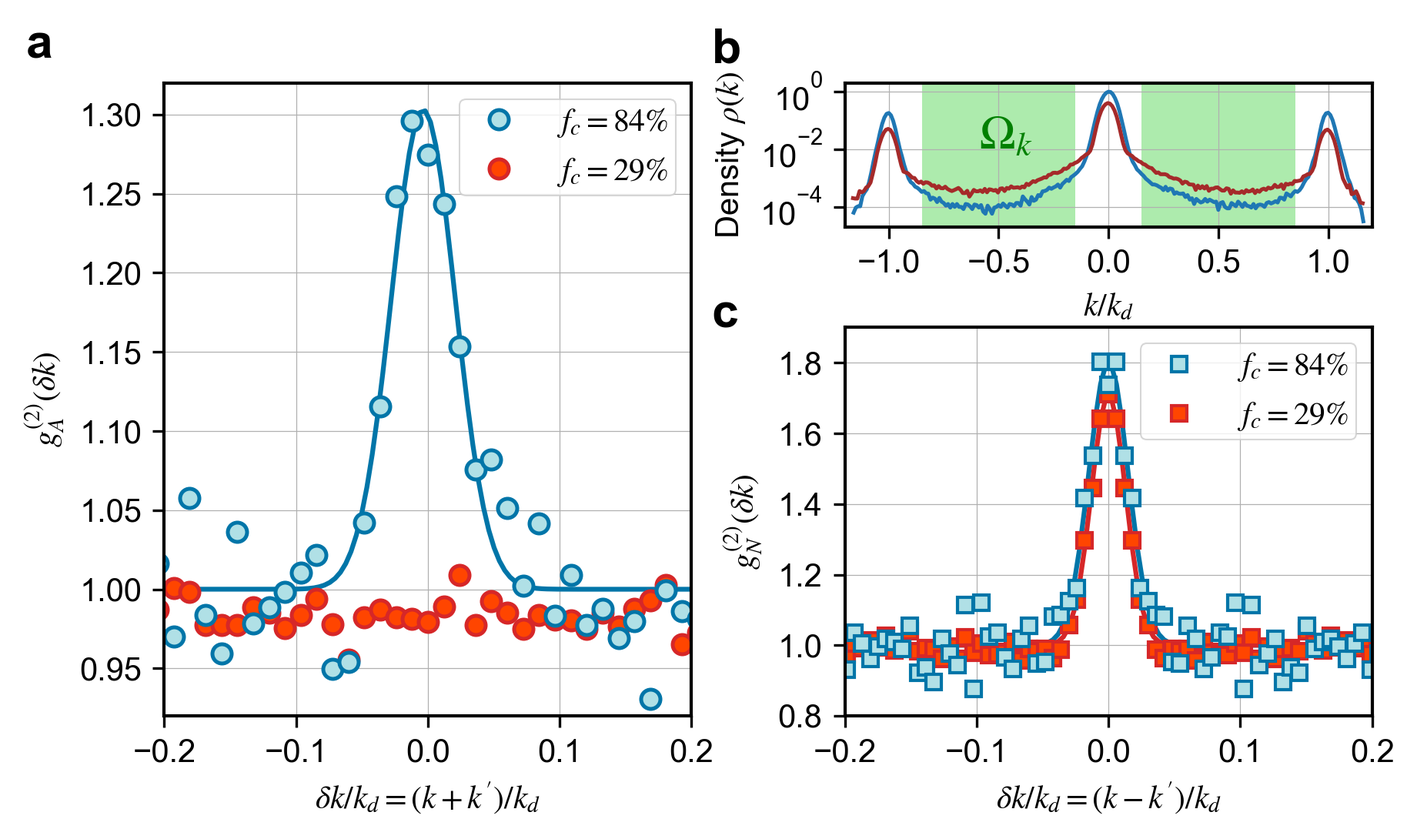
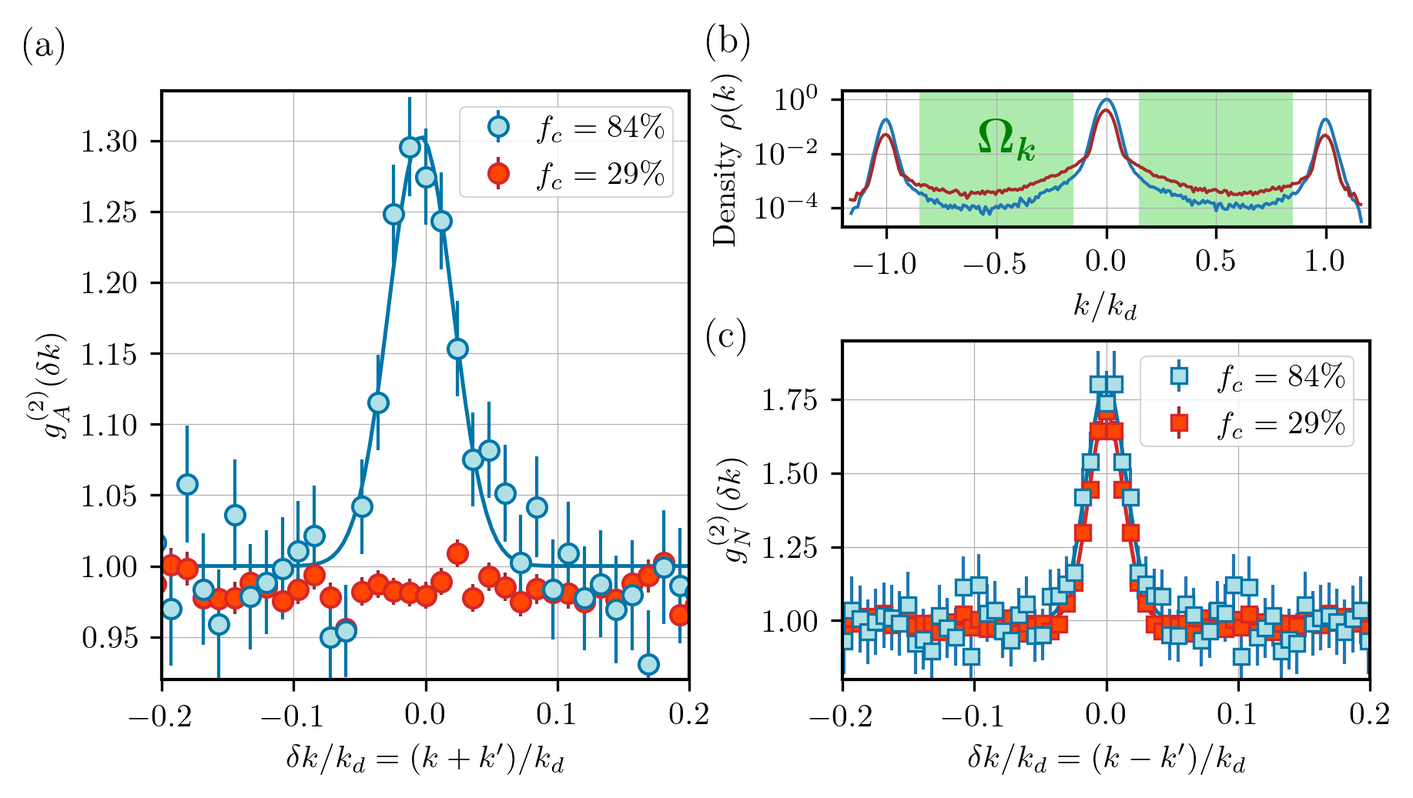
corrections chapitre 4

diff --git a/Chapters/Chapter4_kmk.tex b/Chapters/Chapter4_kmk.tex
@@ -4,9 +4,9 @@
 
 \label{sec:chapter_4}
 
-The Bogoliubov interacting Bose gas has been the subject of a large variety of experimental studies, both aiming at measuring Bogoliubov spectrum of excitations \cite{fontaine2018,miller1962,ozeri2005,stepanov2019} as well as the quantum depletion \cite{chang2016,lopes2017,xu2006observation}. However, even though there have been some experimental work measuring the Lee, Huang and Yang beyond-mean field correction to the ground-state energy \cite{navon2010equation,skov2021observation}, an experimental study of the correlations in the many-body ground-state, and more precisely the observation of the predicted \kmk pairs, is yet to be done more than 60 years after Lee, Huang and Yang paper \cite{lee1957}. As we have seen through the different chapters of this thesis, our experimental setup is perfectly suited for such an investigation. 
+The Bogoliubov interacting Bose gas has been the subject of a large variety of experimental studies, both aiming at measuring the Bogoliubov spectrum of excitations \cite{fontaine2018,miller1962,ozeri2005,stepanov2019} as well as the quantum depletion \cite{chang2016,lopes2017,xu2006observation}. However, even though there have been some experimental work measuring the Lee, Huang and Yang beyond-mean field correction to the ground-state energy \cite{navon2010equation,skov2021observation}, an experimental study of the correlations in the many-body ground-state, and more precisely the observation of the predicted \kmk pairs, is yet to be done more than 60 years after their prediction \cite{lee1957}. As we have seen through the different chapters of this thesis, our experimental setup is perfectly suited for such an investigation. 
 
-We will present in this chapter the main result of this thesis, namely the observation of the \kmk pairs of the quantum depletion. We will detail the numerical procedure and the analysis method used to extract the correlation signals and present the experimental results. With the theoretical developments of Chapter \ref{sec:chapter_1}, we will show how we can link the measured anomalous correlation signal to the \kmk pairs of the quantum depletion by studying the effect of temperature, the widths and amplitudes of the correlation peak, as well as the fluctuations of the atom number difference between modes $\bm{k}$ and $-\bm{k}$. In addition, we will show how our measurement constitutes a first step towards showing the presence of momentum-space entanglement in many-body equilibrium states.
+We will present in this chapter the main result of this thesis, namely the observation of the \kmk pairs of the quantum depletion. We will detail the numerical procedure and the analysis method used to extract the correlation signals and present the experimental results. With the theoretical developments of Chapter \ref{sec:chapter_1}, we will show how we can link the measured anomalous correlation signal to the \kmk pairs of the quantum depletion by studying the effect of temperature, the widths and amplitudes of the correlation peak, as well as the fluctuations of the atom number difference between modes $\bm{k}$ and $-\bm{k}$. In addition, we will show how our measurement constitutes a first step towards showing the presence of momentum-space entanglement in many-body equilibrium states. We will finally discuss the evolution of the correlation signals with the region of momentum space they are probed in in light of the work \cite{butera2020}.
 
 \section{Numerical procedure to measure two-body correlations}
 
@@ -77,15 +77,15 @@ The first step is to compute the numerator of equations \ref{Eq:g2_anomalous} or
 
 \noindent We end up with a 3D histogram where each voxel is associated to a value of $\delta \bm{k} = (\delta k_x,\delta k_y, \delta k_z)$ and records how many atom pairs have this specific momentum sum or difference, depending on the kind of the correlations probe. The voxels are set to be cubic of dimension $\Delta k_{\parallel}$. The value of $\Delta k_{\parallel}$ is adapted so that we can properly resolve the correlation peaks while ensuring a proper signal to noise ratio. In practice, we use $\Delta k_{\parallel}= 1.2 \times 10^{-2} \ k_d$ for \kmk correlations and $\Delta k_{\parallel}= 6 \times 10^{-3} \ k_d$ for \kk correlations as normal the correlation peak is narrower than the anomalous one (see \ref{sec:width_correlation_theo}).
 
-The major difference with the previous version of the algorithm (see Appendix of \cite{carcy2019momentum}) is that we record here the full 3D histogram of calculated $\delta \bm{k}$ on every pair of atoms. The procedure was originally made simpler by calculating three one-dimensional histograms, one for each direction of space. Each of these histograms represents a one-dimensional cut of general 3D correlation function $G^{(2)}(\delta \bm{k})$. For instance, to obtain the $x$ direction histogram, for the atom $j$ in run $i$, we calculate $\delta k_x$ only for atoms $p$ close enough in momentum space to find a \kk correlations, \ie with $|k_y^{(j)}-k_y^{(p)}| \leq \Delta k_{\perp}$ and $|k_z^{(j)}-k_z^{(p)}| \leq \Delta k_{\perp}$, where $\Delta k_{\perp}$ defines a transverse integration (see later). This method obviously saves computing time and RAM space, but is not suited to look for \kmk correlations.
+The major difference with the previous version of the algorithm (see Appendix of \cite{carcy2019momentum}) is that we record here the full 3D histogram of calculated $\delta \bm{k}$ on every pair of atoms. The procedure was originally made simpler by calculating three one-dimensional histograms, one for each direction of space. Each of these histograms represents a one-dimensional cut of the general 3D correlation function $G^{(2)}(\delta \bm{k})$. For instance, to obtain the $x$ direction histogram, for the atom $j$ in run $i$, we calculate $\delta k_x$ only for atoms $p$ close enough in momentum space to find a \kk correlations, \ie with $|k_y^{(j)}-k_y^{(p)}| \leq \Delta k_{\perp}$ and $|k_z^{(j)}-k_z^{(p)}| \leq \Delta k_{\perp}$, where $\Delta k_{\perp}$ defines a transverse integration (see later). This method obviously saves computing time and RAM space, but is not suited to look for \kmk correlations.
 
-At this point, we record in the central voxels associated to $\delta \bm{k} \simeq \bm{0}$ what we call \textbf{true coincidences}, namely two atoms detected conjointly as a result of \kmk pairing or bosonic bunching. However, we also record \textbf{accidental coincidences} that do not represent correlations but result from the momentum distribution of the atoms. We then need a normalization process to get rid of the contribution of accidental coincidences, \ie a method to compute the denominator of equation \ref{Eq:g2}.
+At this point, we record in the central voxels associated to $\delta \bm{k} \simeq \bm{0}$ what we call \textbf{true coincidences}, namely two atoms detected conjointly as a result of \kmk pairing or bosonic bunching. However, we also record \textbf{accidental coincidences} that do not represent correlations but result from the momentum distribution of the atoms. We then need a normalization process to get rid of the contribution of accidental coincidences, \ie a method to compute the denominator of equation \ref{Eq:g2_anomalous} or \ref{Eq:g2_normal}.
 
 \subsubsection{Denominator calculation}
 
 \label{sec:algo}
 
-We now compute the denominator of equation \ref{Eq:g2}, representing the effect of accidental coincidences. To perform this calculation, we would like to use a sample of uncorrelayted atoms with the same momentum density than our experimental data. This can be done by merging all experimental shots together, each shot being uncorrelated with one another. We then apply the procedure we have just described to this data set. However, the correlations present within single shots remain in this large file. In the end, the total number of correlations in the numerator is $\sum_i N_i^2$ whereas the number of coincidences in the merged file is $(\sum_i N_i)^2$. With $\bar{N}$ the mean number of atoms per shot, we see that:
+We now compute the denominator of equation \ref{Eq:g2_anomalous} or \ref{Eq:g2_normal}, representing the effect of accidental coincidences. To perform this calculation, we would like to use a sample of uncorrelated atoms with the same momentum density than our experimental data. This can be done by merging all experimental shots together, each shot being uncorrelated with one another. We then apply the procedure we have just described to this data set. However, the correlations present within single shots remain in this large file. In the end, the total number of correlations in the numerator is $\sum_i N_i^2$ whereas the number of coincidences in the merged file is $(\sum_i N_i)^2$. With $\bar{N}$ the mean number of atoms per shot, we see that:
 
 \begin{equation}
       \frac{\sum_i N_i^2}{(\sum_i N_i)^2}=\frac{N_{\rm{runs}} \bar{N}^2}{N_{\rm{runs}}^2 \bar{N}^2}=\frac{1}{N_{\rm{runs}}}
@@ -130,7 +130,7 @@ We now write what is the signal that is plotted when this process is applied. Th
     \label{eq:g2_theo}
 \end{equation}
 
-\noindent where we introduce $\eta_0$ the amplitude of the correlation peak and $\sigma_i$ the RMS width of the correlation peak in direction $i=x,y,z$. Importantly, we have assumee that the different correlation axis are separable. We re-write this equation to account for the transverse integration process, with the example of a cut along the $x$ direction:
+\noindent where we introduce $\eta_0$ the amplitude of the correlation peak and $\sigma_i$ the RMS width of the correlation peak in direction $i=x,y,z$. Importantly, we have assumed that the different correlation axis are separable. We re-write this equation to account for the transverse integration process, with the example of a cut along the $x$ direction:
 
 \begin{equation}
     g^{(2)} \left(\delta k_{x}\right)=\frac{1}{\left(2 \Delta k_{\perp}\right)^{2}} \iint_{-\Delta k_{\perp}}^{\Delta k_{\perp}} \left( 1+ \eta_0 \prod_{i=x, y, z} \exp \left(\frac{-\delta k_{i}^{2}}{2 \sigma_i^{2}}\right) \mathrm{d} \delta k_y \mathrm{d} \delta k_z \right)
@@ -149,19 +149,28 @@ Note that we have here neglected the small longitudinal integration induced by t
     \label{eq:fit_integration}
 \end{equation}
 
-The idea is then to measure $\eta$ for several values of $\Delta k_{\perp}$ and fit the data with equation \ref{eq:fit_integration} with $\eta_0$ and $\sigma$ as free parameters. For a single value of the transverse integration, $\eta$ is obtained by averaging the 3 amplitudes fitted on the 1D cuts along the 3 directions of space. The uncertainty on the parameters of the fit defines the error bars on the amplitude.
+The idea is then to measure $\eta$ for several values of $\Delta k_{\perp}$ and fit the data with equation \ref{eq:fit_integration} with $\eta_0$ and $\sigma$ as free parameters. This is illustrated on Fig-\ref{fig:integration_kk} and Fig.-\ref{fig:eta_vs_int_kmk} for \kmk and \kk correlations respectively. For a single value of the transverse integration, $\eta$ is obtained by averaging the 3 amplitudes fitted on the 1D cuts along the 3 directions of space. The uncertainty on the parameters of the fit defines the error bars on the amplitude.
 
-In addition, we have checked that the transverse integration process does not significantly change the width of the correlation peak (see Fig.-\ref{fig:eta_vs_int_kmk} in \ref{sec:amp_anomalous}). The extracted width is therefore the fitted width at the lowest transverse integration for which we get a satisfactory signal to noise ratio.
+In addition, we have checked that the transverse integration process does not significantly change the width of the correlation peak as shown on the inset of Fig.-\ref{fig:eta_vs_int_kmk}. The extracted width is therefore the fitted width at the lowest transverse integration for which we get a satisfactory signal to noise ratio.
 
-\NOTE{bouger les courbes eta vs delta k}
+\begin{figure}
+    \centering
+    \includegraphics[width=0.65\textwidth]{Fig/Chapter4/eta_vs_int_kk.png}
+    \caption[Fitted amplitude of the normal correlation peak $\eta_N$ as a function of the transverse integration $\Delta k_{\perp}$]{Fitted amplitude of the normal correlation peak $\eta_N$ as a function of the transverse integration $\Delta k_{\perp}$. The data is fitted with model defined in equation \ref{eq:fit_integration} with $\eta_0$ and $\sigma$ as free parameters. This method allows us to extract the amplitude at zero transverse integration $\eta_{0,N}$.}
+    \label{fig:integration_kk}
+\end{figure}
 
-
-
+\begin{figure}
+    \centering
+    \includegraphics[width=0.65\textwidth]{Fig/Chapter4/eta_vs_int_kmk.png}
+    \caption[Fitted amplitude of the anomalous correlation peak $\eta_A$ as a function of the transverse integration $\Delta k_{\perp}$]{Fitted amplitude of the anomalous correlation peak $\eta_A$ as a function of the transverse integration $\Delta k_{\perp}$. The inset represents the fitted width $\sigma_A$ as a function of the transverse integration $\Delta k_{\perp}$. No significant effect can be observed within the error bars.}
+    \label{fig:eta_vs_int_kmk}
+\end{figure}
 
 
 \section{Observation of the pair correlation signal}
 
-\NOTE{refaire pour les transitions}
+Now that we have determined the correct numerical procedure to extract the correlation signals from the raw data, we look to apply it on our experimental. In this section, we will present the measured \kmk correlation signal of we which we will try to understand the main features. Our goal is to first identify clear arguments linking this signal to the quantum depletion, before going into quantitative details that will be the subject of the next section.
 
 \subsection{Accessing the BEC depletion}
 \label{sec:accessing_depletion}
@@ -179,7 +188,7 @@ In order to detect \kmk pairs in the depletion, it is absolutely crucial to remo
 
 \label{sec:benchmark_algo}
 
-Before using the algorithm to look for \kmk pairing signal in the depletion of a weakly-interacting Bose gas, it was crucial to test it on a data set with a large number of \kmk pairs to certify that it was working properly. Luckily, we could re-use the data taken for measuring two-body collisions during the time-of flight described in Chapter \ref{sec:chapter_3}. Indeed, because of the elastic character of the collision, every atom on a collision sphere is correlated with a partner on the other side of the sphere, yielding \kmk correlations in the reference frame of the center of mass of the colliding BECs \cite{perrin2007observation,hodgman2017solving}. In addition to the 3D diffraction data that we already presented, we also took data with a single lattice beam to induce 1D diffraction and obtain only two collision spheres (see Fig.-\ref{fig:1D_spheres}). The advantage is that we have a large number of atoms in the collision spheres, making the analysis easier. 
+Before using the algorithm to look for \kmk pairing signal in the depletion of a weakly-interacting Bose gas, it was crucial to test it on a data set with a large number of \kmk pairs to certify that it was working properly. Luckily, we could re-use the data taken for measuring two-body collisions during the time-of flight described in Chapter \ref{sec:chapter_3}. Indeed, because of the elastic character of the collision, every atom on a collision sphere is correlated with a partner on the other side of the sphere, yielding \kmk correlations in the reference frame of the center of mass of the colliding BECs \cite{perrin2007observation,hodgman2017solving}. In addition to the 3D diffraction data that we already presented, we also took data with a single lattice beam to induce 1D diffraction and obtain only two collision spheres (see Fig.-\ref{fig:1D_spheres}). The advantage is that we have a large number of atoms in these collision spheres, making the analysis easier. 
 
 \begin{figure}
     \centering
@@ -190,7 +199,7 @@ Before using the algorithm to look for \kmk pairing signal in the depletion of a
 
 Contrary to the \kmk correlations of the quantum depletion, we de not expect a correlation peak at $\delta \bm{k}=\bm{0}$. If we consider for instance collisions between the 0th and 1st orders of diffraction along $z$, the overall momentum before and after the collision is $k_d \bm{z}$ ($\bm{z}$ is the unitary vector of the $z$ axis), so that the sum of the momenta of the two correlated atoms after the collision must be $k_d \bm{z}$. We thus expect a correlation peak for each sphere, one at $\delta k = (0,0,+1 \ k_d)$  and one at $\delta k = (0,0,-1 \ k_d)$.
 
-We run the algorithm on the experimental data and obtain the results shown in Fig.-\ref{fig:kmk_kapitza}. We observe two correlations peaks at the expected locations! We can now extract the width and amplitude of the peaks with a Gaussian fit and see if they match with the results of \cite{tenart2020two} detailled in Chapter \ref{sec:chapter_3}. We find RMS widths of $\sigma_A^{(-1)}=2.3(9) \times 10^{-2} \ k_d$ and $\sigma_A^{(+1)}=2.7(8) \times 10^{-2} \ k_d$, the error bars being given by the uncertainty on the fit coefficients. This is consistent with the measured widths of the scattering halos presented in $\delta k_s = 2.1(9) \times 10^{-2}$ for $\NBEC=1.25 \times 10^5$ close to the total number of atoms used here. 
+We run the algorithm on the experimental data and obtain the results shown in Fig.-\ref{fig:kmk_kapitza}. We observe two correlations peaks at the expected locations! We can now extract the width and amplitude of the peaks with a Gaussian fit and see if they match with the results of \cite{tenart2020two} detailled in Chapter \ref{sec:chapter_3}. We find RMS widths of $\sigma_A^{(-1)}=2.3(9) \times 10^{-2} \ k_d$ and $\sigma_A^{(+1)}=2.7(8) \times 10^{-2} \ k_d$, the error bars being given by the uncertainty on the fit coefficients. This is consistent with the measured widths of the scattering halos presented in \ref{sec:width_halos}, namely $\delta k_s = 2.1(9) \times 10^{-2}$ for $\NBEC=1.25 \times 10^5$ close to the total number of atoms used here. 
 The prediction of the amplitude is rather easy in this configuration as we know that every atom on the sphere has a momentum correlated partner, allowing us to compare it to the experiment. To count the experimental number of detected pairs, we use the following procedure:
 
 
@@ -235,9 +244,7 @@ We find that we expect to detect $8.5(5)$ pairs per run which is rather consiste
 
 \label{sec:post_selec}
 
-
-
-As we have the algorithm necessary to extract the correlation signal and checked that it is working properly, we now look to observe the \kmk pairs of the quantum depletion.
+As we have now checked that the algorithm is working properly, we now look to observe the \kmk pairs of the quantum depletion.
 
 
 
@@ -259,7 +266,7 @@ We prepare a BEC with a target number of $\NBEC=5 \times 10^3$ atoms in an optic
 
 We have plotted on Fig-\ref{fig:kmk_signal} 1D cuts through the calculated $g_{A}^{(2)}$ function on which we see clear correlation peaks standing out from the noise! This is the kind of signal we were aiming to obtain and constitutes the central result of this thesis. Before analyzing the features of this correlation signal in more details, we conduct a first series of experimental checks. First, we extend the range of $\delta \bm{k}$ on which we plot the $g_{A}^{(2)}$ function to find correlation peaks at $\delta k = \pm k_d$ as shown on Fig.-\ref{fig:periodicity}. This is something that we expected from Bloch theorem (see \ref{sec:BH_model}) as the lattice is a periodic potential.
 
-\begin{figure}[ht!]
+\begin{figure}
     \centering
     \includegraphics[width=0.7\textwidth]{Fig/Chapter4/periodicity.png}
     \caption[1D cut of the anomalous correlation function $\gtwo_A$ illustrating its periodicity]{1D cut of the anomalous correlation function $\gtwo_A$. Because of the lattice periodic potential, we observe additional correlation peaks at $\pm k_d$.}
@@ -268,7 +275,7 @@ We have plotted on Fig-\ref{fig:kmk_signal} 1D cuts through the calculated $g_{A
 
 Furthermore, we check that there are no correlations in the coherent BEC state. We do so by selecting atoms with $|k_i|<0.04 \ k_d$ with $i=x,y,z$. We show on Fig.-\ref{fig:BEC_correlations} the calculated normal and anomalous correlation functions for the mode of the BEC. As expected, both correlation functions are flat, expect for a small modulation of the order of $1 \%$ that is an artifact of the normalization procedure caused by shot-to-shot fluctuations of the width of the BEC (see \cite{cayla_these}).
 
-\begin{figure}[ht!]
+\begin{figure}
     \centering
     \includegraphics[width=0.65\textwidth]{Fig/Chapter4/correlations_BEC.png}
     \caption[Normal and anomalous correlation functions in the BEC]{Normal and anomalous correlation functions in the BEC. The correlation functions are flat, except for a small-amplitude modulation that is due to normalisation issues induced by shot-to-shot fluctuations of the BEC width in momentum-space.}
@@ -295,23 +302,23 @@ While these first observations seems to point towards the fact that we are indee
 
 \label{sec:kmk_temperature}
 
-The temperature can be increased in a rather simple manner by holding the atoms at the final amplitude of the lattice for a longer duration, the gas being continuously heated over time (attributed to imperfections such as spontaneous emission or mechanical vibrations). We repeat the experiment with a holding time of $500 \ \rm{ms}$ corresponding to hundreds of tunneling times $225 \times h/J$. The increase in temperature can be seen by looking at the momentum density profile as shown in the panel b of Fig-\ref{fig:kmk_temperature}: the thermal depletion has increased, increasing the momentum density in the depletion region by a factor $\sim 4$. Note however that we did not increase the temperature too much to keep a significant condensed fraction of the order of $f_c = 29 \%$ (in the absence of BEC there is no quantum depletion). As the thermally depleted atoms show no \kmk correlations, only the denominator of equation \ref{Eq:g2_anomalous} increases as both $\rho(\bm{k})$ and $\rho(-\bm{k})$ increases each by a factor 4, thus reducing the amplitude of the anomalous correlation function by at least a factor 16, bringing it under the experimental noise as we see on Fig-\ref{fig:kmk_temperature} panel \textbf{a}.. Note that this reduction factor could in fact be even larger as the condensed fraction is small, meaning that the Bogoliubov approximation should not hold anymore. 
+The temperature can be increased in a rather simple manner by holding the atoms at the final amplitude of the lattice for a longer duration, the gas being continuously heated over time (attributed to imperfections such as spontaneous emission or mechanical vibrations). We repeat the experiment with a holding time of $500 \ \rm{ms}$ corresponding to hundreds of tunneling times $225 \times h/J$. The increase in temperature can be seen by looking at the momentum density profile as shown in the panel (b) of Fig-\ref{fig:kmk_temperature}: the thermal depletion has increased, increasing the momentum density in the depletion region by a factor $\sim 4$. Note however that we did not increase the temperature too much to keep a significant condensed fraction of the order of $f_c = 29 \%$ (in the absence of BEC there is no quantum depletion). As the thermally depleted atoms show no \kmk correlations, only the denominator of equation \ref{Eq:g2_anomalous} increases as both $\rho(\bm{k})$ and $\rho(-\bm{k})$ increases each by a factor 4, thus reducing the amplitude of the anomalous correlation function by at least a factor 16, bringing it under the experimental noise as we see on Fig-\ref{fig:kmk_temperature} panel (a). Note that this reduction factor could in fact be even larger as the condensed fraction is small, meaning that the Bogoliubov approximation should not hold anymore. 
 
 We also repeated the experiment for an intermediate temperature obtained with a holding time of $200 \ \rm{ms}$ corresponding to $90 \times h/J$ tunneling time. The condensed fraction is then $f_c=55 \%$ and we observe a peak of intermediate amplitude as shown on Fig-\ref{fig:kmk_3_temp}.
 
 \begin{figure}
     \centering
-    \includegraphics[width=\textwidth]{Fig/Chapter4/kmk_temperature_error_bars.pdf}
+    \includegraphics[width=\textwidth]{Fig/Chapter4/kmk_temperature.png}
     \caption[Atom-atom correlations in weakly-interacting BECs at two different temperatures]{Atom-atom correlations in weakly-interacting BECs at two different temperatures. The data for the low-temperature BEC ($f_{c}=84\%$), {\it resp.} for the heated BEC ($f_{c}=29\%$), are depicted in blue, {\it resp.} in red. 
-    {\bf (a)}. Anomalous correlations $g_{A}^{(2)}(\delta k)$ at opposite momenta. The ${\bm k}$/$-{\bm k}$ peak disappears as the temperature increases.
-    {\bf (b)}. 1D cut of the density $\rho(k)$ in semilog scale. The depletion density increases with temperature.
-    {\bf (c)}. Normal correlations $g_{N}^{(2)}(\delta k)$ for the same datasets and $\Omega_k$. The peak amplitude shows no significant change as the temperature increases. Note that the transverse integration $\Delta k_{\perp}=1.5 \times 10^{-2} \, k_d$ used here reduces the amplitude of the peaks.}
+    {(a)} Anomalous correlations $g_{A}^{(2)}(\delta k)$ at opposite momenta. The ${\bm k}$/$-{\bm k}$ peak disappears as the temperature increases.
+    {(b)} 1D cut of the density $\rho(k)$ in semilog scale. The depletion density increases with temperature.
+    {(c)} Normal correlations $g_{N}^{(2)}(\delta k)$ for the same datasets and $\Omega_k$. The peak amplitude shows no significant change as the temperature increases. Note that the transverse integration $\Delta k_{\perp}=1.5 \times 10^{-2} \, k_d$ used here reduces the amplitude of the peaks.}
     \label{fig:kmk_temperature}
 \end{figure}
 
-We thus see observe that the \kmk correlation signal is extremely sensitive to temperature, hinting to the fact that it is related to a $T=0$ ground-state effect. It is also quite illuminating to compare the \kmk correlations to the bosonic bunching \kk correlations. As explained in Chapter \ref{sec:chapter_1}, the bosonic bunching effect is the consequence of chaotic statistics, a property shared by the thermal and quantum depletion. Therefore, changing the temperature and thus the balance between thermal and quantum depletion should have no effect on bosonic bunching. This is what we observe experimentally as shown on Fig-\ref{fig:kmk_temperature} panel \textbf{c}.
+We thus see observe that the \kmk correlation signal is extremely sensitive to temperature, hinting to the fact that it is related to a $T=0$ ground-state effect. It is also quite illuminating to compare the \kmk correlations to the bosonic bunching \kk correlations. As explained in Chapter \ref{sec:chapter_1}, the bosonic bunching effect is the consequence of chaotic statistics, a property shared by the thermal and quantum depletion. Therefore, changing the temperature and thus the balance between thermal and quantum depletion should have no effect on bosonic bunching. This is what we observe experimentally as shown on Fig-\ref{fig:kmk_temperature} panel (c).
 
-In conclusion, we have on the same experimental data two very different behaviours with temperature that illustrate nicely the natures of the correlation signals. On the one hand, \kk correlations unaffected by temperature reveal the chaotic statistics of the system, on the other hand, \kmk correlations reveal the many-body ground state quantum coherences. These observations constitutes a rather convincing argument that we are indeed observing a \kmk correlation signal caused by the quantum depletion and not some other effect that we could have overlooked.
+In conclusion, we have on the same experimental data two very different behaviours with temperature that illustrate nicely the natures of the correlation signals. On the one hand, \kk correlations unaffected by temperature, reveal the chaotic statistics of the system. On the other hand, \kmk correlations reveal the many-body ground state quantum coherences. These observations constitutes a rather convincing argument that we are indeed observing a \kmk correlation signal caused by the quantum depletion and not some other effect that we could have overlooked.
 
 \begin{figure}
     \centering
@@ -327,11 +334,11 @@ In the following, we study in quantitative details these correlation signals.
 
 \section{Study of the width of the correlation peaks}
 
-To begin, we study the width of the correlation peak, a quantity that actually contains meaningful information about the many-body equilibrium state. The key aspect is the same used by Hanbury Brown and Twiss in their seminal paper to measure the size of Sirius through the measurement of the second order correlation function in far-field, namely the width of the correlation peak is inversely proportional to the spatial size of the source. 
+In a first time, we study the width of the correlation peak, a quantity that actually contains meaningful information about the many-body equilibrium state. The key aspect is the same used by Hanbury Brown and Twiss in their seminal paper to measure the size of Sirius through the measurement of the second order correlation function in far-field, namely the width of the correlation peak is inversely proportional to the spatial size of the source. 
 
 %This argument validates our previous assumption that the correlation peak is isotropic, as the lattice trapping potential is isotropic so that the spatial size of the BEC is the same in the three directions of space.
 
-This subject has been discussed in \ref{sec:width_correlation_theo} in light of the results of the theoretical work \cite{butera2020}. We remind that as the anomalous correlations are exclusively caused by quantum depleted atoms whose spatial extent is the one of the BEC, the width of the anomalous correlation peak $\sigma_A$ to be inversely proportional to the size of the BEC $L_{\rm{BEC}}$. On the other hand, the normal correlations are caused by quantum depleted atoms but also and by thermally depleted atoms whose spatial size extends beyond the BEC because of the increased kinetic energy. This tells us that the width of the normal correlations peak $\sigma_N$ should be smaller than that for anomalous correlations.
+This subject has been discussed in \ref{sec:width_correlation_theo} in light of the results of the theoretical work \cite{butera2020}. We remind that as the anomalous correlations are exclusively caused by quantum depleted atoms whose spatial extent is the one of the BEC, the width of the anomalous correlation peak $\sigma_A$ is inversely proportional to the size of the BEC $L_{\rm{BEC}}$. On the other hand, the normal correlations are caused by quantum depleted atoms but also thermally depleted atoms whose spatial size extends beyond the BEC because of the increased kinetic energy. This tells us that the width of the normal correlations peak $\sigma_N$ should be smaller than that for anomalous correlations.
 
 \begin{figure}
     \centering
@@ -340,11 +347,13 @@ This subject has been discussed in \ref{sec:width_correlation_theo} in light of 
     \label{fig:width}
 \end{figure}
 
-We plot on Fig.-\ref{fig:width} the experimental correlation peaks widths for different total atom numbers. The horizontal error bars correspond to the standard deviation of the total atom number, while the vertical error bars correspond to the standard deviation of the mean over the three directions of the momentum space. As expected, we observe that for all atom numbers, $\sigma_A > \sigma_N$. In addition, one would expect to see both widths decrease with the total atom number as the size of the system grows with $\NBEC$. This is more or less what the experimental data suggests but the error bar are not too large to make a definite statement on this point. Note that in the Thomas-Fermi regime, the size of the BEC changes slowly with the total atom number $L_{\rm{BEC}} \propto \NBEC^{1/5}$, translating in a change of $\sim 30\%$ of the width of the correlation peaks from the data with $N=2.5 \times 10^3$ to $N=10 \times 10^3$ that is hard to resolve within our error bars.
+We plot on Fig.-\ref{fig:width} the experimental correlation peaks widths for different total atom numbers. The horizontal error bars correspond to the standard deviation of the total atom number, while the vertical error bars correspond to the standard deviation of the mean over the three directions of the momentum space. With this first analysis, we observe that for all atom numbers, $\sigma_A > \sigma_N$. In addition, one would expect to see both widths decrease with the total atom number as the size of the system grows with $\NBEC$. This is more or less what the experimental data suggests but the error bar are not too large to make a definite statement on this point. Note that in the Thomas-Fermi regime, the size of the BEC changes slowly with the total atom number $L_{\rm{BEC}} \propto \NBEC^{1/5}$, translating in a change of $\sim 30\%$ of the width of the correlation peaks from the data with $N=2.5 \times 10^3$ to $N=10 \times 10^3$ that is hard to resolve within our error bars.
 
 We now look at the quantitative value of $\sigma_A$ that can be numerically evaluated. The calculations have been performed by S. Butera and I. Carusotto from the BEC center in Trento, Italy, with the Bogoliubov theory for a trapped 1D system \cite{butera2020}. They evaluate $\sigma_{A,\rm{theo}} = 0.94 \sigma_{\rm{BEC}}$, with $\sigma_{\rm{BEC}}$ the RMS width in momentum space of the condensate. This relation is not modified in presence of a lattice as the size $L_{\rm{BEC}}$ does not change when the ratio $\mu/\hbar \omega$ is fixed. This is explained by the equality $m \omega^2 = m^* \omega^* ^2$ with $m^*$ the effective mass in the lattice and $\omega^*$ the corresponding effective frequency as defined in \ref{sec:rescaled_interaction}.
 
 We can therefore measure $\sigma_{\rm{BEC}}$ to exploit this result. To do so, we need to account for deviations induced by the saturation of the detector. Indeed, the BEC is very dense resulting in a high flux of atoms saturating the detector. If we plot 1D cuts of the momentum density, the BEC momentum profile is then flattened at the top and fitting with a Gaussian function over-evaluates the momentum width of the condensate. To circumvent this issue, we adapt the parameters of the Raman transfer (see \ref{sec:raman}) to reduce drastically the flux of detected atoms and avoid saturating the detector to ensure proper fitting.
+
+\subsubsection{Center-of-mass fluctuations}
 
 During our first analysis, we noticed that the anomalous correlation peak was larger than that of the BEC, contrary to what we would have expected. We also noticed that the momentum width of the BEC was larger than what we obtained applying the Gutzwiller ansatz with our calibrated atom numbers. We attribute this to an imperfection in our experiment, the shot-to-shot fluctuations of the center-of-mass of the atomic distribution. When averaging over many experimental runs, these fluctuations enlarges artificially the measured width of the BEC, as well as the width of the anomalous correlation peak. These fluctuations can nevertheless be characterize by comparing the experimental momentum width of the BEC to the one predicted by the Gutzwiller variational approach.
 
@@ -364,14 +373,22 @@ For a \kmk pair of atoms, a center-of-mass displacement ${\rm{d}} \bm{k}$ induce
 
 \noindent Combining this with the numerical evaluation and the measured values of $\Delta k_{\rm{com}}$, we obtain a corrected estimate of $\sigma_A$ that is represented as the green area in Fig.-\ref{fig:width}. The width of the area represent the uncertainty given by the uncertainty on the measurement of $\sigma_{\rm{BEC}}$ and the uncertainty on the determination of $L_{\rm BEC}$ caused by fluctuations of the total atom number. We find that our experimental data matches the numerical calculations of \cite{butera2020}, even our experimental configuration is different (3D with an optical lattice contrary to 1D with a regular harmonic trap \cite{butera2020}).
 
-We note that the fluctuations of the center-of-mass have however no effect on the normal correlation signal. Within a given shot, the center-of-mass fluctuations simply manifest as a global displacement of all the atoms of this shot by a quantity that we note $\bm{k}_{\mathrm{COM}}$. As a result, the momentum difference $\delta \bm{k} = \bm{k}_1 - \bm{k}_2$ between two atoms of this shot is not affected by the COM fluctuations, $(\bm{k}_1+\bm{k}_{\mathrm{COM}}) - (\bm{k}_2+\bm{k}_{\mathrm{COM}})=\bm{k}_1 - \bm{k}_2$. In turn, the normal correlation function $g^{(2)}_{N}(\delta \bm{k})$ remains unchanged. When accounting for the effect of center-of-mass fluctuations, we then rather observe $\sigma_A \geq \sigma_N$ as not all anomalous widths of Fig-\ref{fig:width} are distinguishable from the normal widths at the same total atom number within error bars.
+We note that the fluctuations of the center-of-mass have however no effect on the normal correlation signal. Within a given shot, the center-of-mass fluctuations simply manifest as a global displacement of all the atoms of this shot by a quantity that we note $\bm{k}_{\mathrm{COM}}$. As a result, the momentum difference $\delta \bm{k} = \bm{k}_1 - \bm{k}_2$ between two atoms of this shot is not affected by the COM fluctuations, $(\bm{k}_1+\bm{k}_{\mathrm{COM}}) - (\bm{k}_2+\bm{k}_{\mathrm{COM}})=\bm{k}_1 - \bm{k}_2$. In turn, the normal correlation function $g^{(2)}_{N}(\delta \bm{k})$ remains unchanged.
 
-\NOTE{faire graph corrigé}
+We then plot again the data of \ref{fig:width} accounting for the effect of center-of-mass fluctuations. We observe that we cannot clearly state that $\sigma_A > \sigma_N$ with the experimental error bars, contrary to what we observed with our first incomplete analysis. This is most likely due to the fact the the temperature is too low to impact the width of the normal correlation function in a way that can be resolved in our experiment. 
+
+
+\begin{figure}
+    \centering
+    \includegraphics{Fig/Chapter4/widths_corrected.png}
+    \caption[Corrected RMS widths of the anomalous and normal correlation peaks]{RMS widths of the anomalous (green) and normal (blue) correlation peaks corrected of the center-of-mass fluctuations. The widths $\sigma_A$ and $\sigma_N$ are no longer distinguishable within error bars, indicating that the temperature is too low to observe a clear separation of the anomalous and normal widths.}
+    \label{fig:my_label}
+\end{figure}
 
 
 \section{Study of the amplitude of the correlation peaks}
 
-Let us now move on to the study of the amplitude of the correlation peaks. Our objective will be to test the predictions of Bogoliubov theory detailled in Chapter \ref{sec:chapter_1} as well as to provide further evidence of the quantum nature of the anomalous correlation signal.
+Let us now move on to the study of the amplitude of the correlation peaks. Our objective will be to test the how the predictions of Bogoliubov theory for the homogeneous case detailled in Chapter \ref{sec:chapter_1} hold for our experimental system with an optical lattice, as well as to provide further evidence of the quantum nature of the anomalous correlation signal.
 
 
 % This method is illustrated on Fig-\ref{fig:integration_kk} for the bosonic bunching measurement for two temperatures as discussed in the previous section, as well as on Fig-\ref{fig:eta_vs_int_kmk} for different anomalous correlation signals.
@@ -380,14 +397,9 @@ Let us now move on to the study of the amplitude of the correlation peaks. Our o
 \subsection{Normal correlations}
 
 The prediction of the amplitude of the normal correlation peak is straightforward: as the statistics of the system are chaotic, we should observe a perfect bunching $\gtwo_N (\bm{0})=2$.
-Coming back to the normal correlations plot of Fig-\ref{fig:kmk_temperature}, we observe that the amplitude is around 1.8, \ie slightly lower than 2. This is because of the transverse integration effects described in \ref{sec:transverse_integration}. We fit the dependency of the observed amplitude with transverse integration to extract the corrected amplitude value as explained in \ref{sec:transverse_integration} and illustrated in Fig.\ref{fig:integration_kk}. We obtain $g^{(2)}_N(\bm{0})=2.05(6)$ and $g^{(2)}_N(\bm{0})=2.09(5)$ for the high and low condensed fraction data sets respectively, confirming the prediction of the Bogoliubov theory that the statistics of the system are chaotic. Note that our team conducted a thorough study of \kk correlations in the depletion of a lattice gas in \cite{cayla2020}. 
+Coming back to the normal correlations plot of Fig-\ref{fig:kmk_temperature}, we observe that the amplitude is around 1.8, \ie slightly lower than 2. This is because of the transverse integration effects described in \ref{sec:transverse_integration}. We fit the dependency of the observed amplitude with transverse integration to extract the corrected amplitude value as explained in \ref{sec:transverse_integration} and illustrated in Fig.\ref{fig:integration_kk}. We obtain $g^{(2)}_N(\bm{0})=2.05(6)$ and $g^{(2)}_N(\bm{0})=2.09(5)$ for the high and low condensed fraction data sets respectively, consistently with Bogoliubov theory showing that the statistics of the system are chaotic. Note that our team conducted a thorough study of \kk correlations in the depletion of a lattice gas in \cite{cayla2020}. 
 
-\begin{figure}
-    \centering
-    \includegraphics[width=0.65\textwidth]{Fig/Chapter4/eta_vs_int_kk.png}
-    \caption[Fitted amplitude of the normal correlation peak $\eta_N$ as a function of the transverse integration $\Delta k_{\perp}$]{Fitted amplitude of the normal correlation peak $\eta_N$ as a function of the transverse integration $\Delta k_{\perp}$. The data is fitted with model defined in equation \ref{eq:fit_integration} with $\eta_0$ and $\sigma$ as free parameters. This method allows us to extract the amplitude at zero transverse integration $\eta_{0,N}$.}
-    \label{fig:integration_kk}
-\end{figure}
+
 
 \subsection{Anomalous correlations}
 
@@ -400,7 +412,7 @@ We now turn to analyzing the amplitude of the anomalous correlation peaks. As we
 
 We showed that the amplitude of the anomalous correlation peak is expected to scale linearly with the inverse of what is called the average mode occupancy, {\it i.e.} the average number of photons per mode. In atomic physics, the analog to the average mode occupancy is the momentum density, {\it i.e.} the average number of atoms in a certain mode $\bm{k}$.
 
-As explained in \ref{sec:accessing_depletion}, we measure integrated correlation functions over the momentum volume $\Omega_k$. The parameter setting the amplitude we observe is then the average momentum density $\bar{\rho}_{\Omega_k}$ defined as:
+As explained in \ref{sec:accessing_depletion}, we measure correlation functions averaged over many modes in the momentum volume $\Omega_k$. The parameter setting the amplitude we observe is then the average momentum density $\bar{\rho}_{\Omega_k}$ defined as:
 
 \begin{equation}
     \bar{\rho}_{\Omega_k}=\int_{\Omega_{k}} \rho({\bm k}) {\rm d}{\bm k}
@@ -425,16 +437,11 @@ The results are plotted on Fig.-\ref{fig:amplitude_vs_rhob} alongside the normal
     \label{fig:amplitude_vs_rhob}
 \end{figure}
 
-\begin{figure}
-    \centering
-    \includegraphics[width=0.65\textwidth]{Fig/Chapter4/eta_vs_int_kmk.png}
-    \caption[Fitted amplitude of the anomalous correlation peak $\eta_A$ as a function of the transverse integration $\Delta k_{\perp}$]{Fitted amplitude of the anomalous correlation peak $\eta_A$ as a function of the transverse integration $\Delta k_{\perp}$. The inset represents the fitted width $\sigma_A$ as a function of the transverse integration $\Delta k_{\perp}$. No significant effect can be observed within the error bars.}
-    \label{fig:eta_vs_int_kmk}
-\end{figure}
+
 
 \subsubsection{Discussion on the detected number of atom pairs}
 
-After looking at the scaling of the amplitude, we take a look at the absolute value of the amplitude from which we extract the number of detected \kmk pairs, following the procedure previously described in \ref{sec:benchmark_algo}. Note that we cannot directly compare the experimental values to equation \ref{eq:amp_g2_A} that holds only if the depletion is entirely quantum.
+The absolute value of the amplitude can be used to extract the number of detected \kmk pairs, following the procedure previously described in \ref{sec:benchmark_algo}. Note that we cannot directly compare the experimental values to equation \ref{eq:amp_g2_A} that holds only if the depletion is entirely quantum.
 
 % \begin{enumerate}
 %     \item The voxel size is increased to $\Delta k_{\parallel} = 0.3 \ k_d$ so that the central voxel contains the entirety of the correlation peak to avoid having to consider integration effects.
@@ -619,7 +626,7 @@ We have reached the end of our investigation of two-body correlation in the depl
     \begin{itemize}
         
         \item The signal is lost with temperature, contrary to the normal correlation signal that reveal the chaotic statistics of the system, unaffected by temperature.
-        \item The width of the anomalous correlation peak is larger than for normal correlations $\sigma_A > \sigma_N$ and matches the numerical calculations of \cite{butera2020} when accounting for center-of-mass fluctuations.
+        \item The width of the anomalous correlation peak matches the numerical calculations of \cite{butera2020} when accounting for center-of-mass fluctuations.
         \item $\gtwo_A(\bm{0})$ scales linearly with the inverse average momentum density $\bar{\rho}_{\Omega_k}$, while $\gtwo_N(\bm{0})$ remains constant.
         \item We get relative number squeezing between correlated boxes at opposite momenta.
         \item We violate Cauchy-Schwarz inequality by observing $\gtwo_A(\bm{0}) \geq \gtwo_N(\bm{0})$.

diff --git a/Chapters/Chapter3_MomentumDistritbution_lattice_gas.tex b/Chapters/Chapter3_MomentumDistritbution_lattice_gas.tex
@@ -746,6 +746,8 @@ We show on Fig.-\ref{fig:spheres} the typical detected momentum distribution on 
 
 \subsubsection{Width of the collision halos}
 
+\label{sec:width_halos}
+
 We show on Fig.-\ref{fig:largeur_spheres} the measured RMS widths of the collision halos $\delta_s$ as a function of the atom number. The error bars are obtained from the error on the Gaussian fit. As expected, we observe a minimum around $N_0 \simeq 1.7 \times 10^5$ at which the mean-field effects start playing a role. 
 
 \begin{figure}
